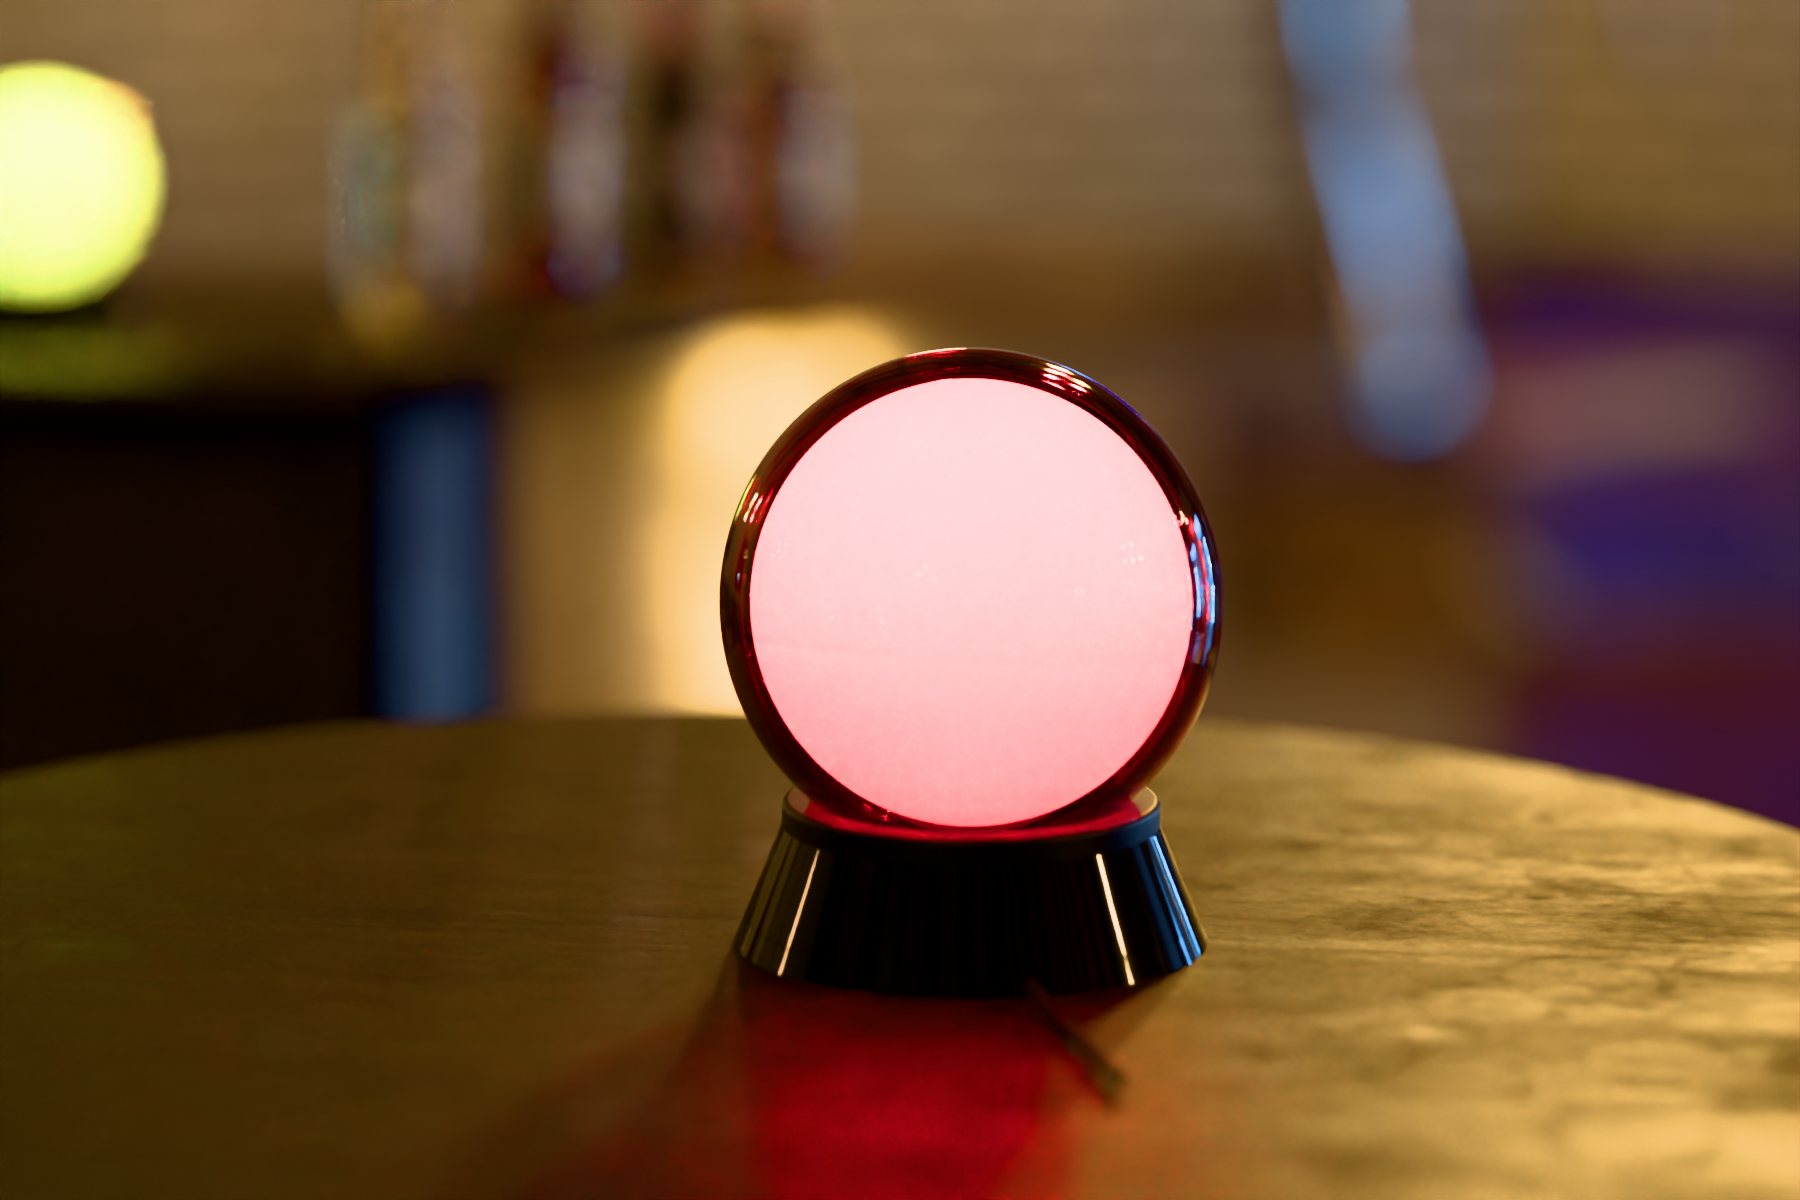
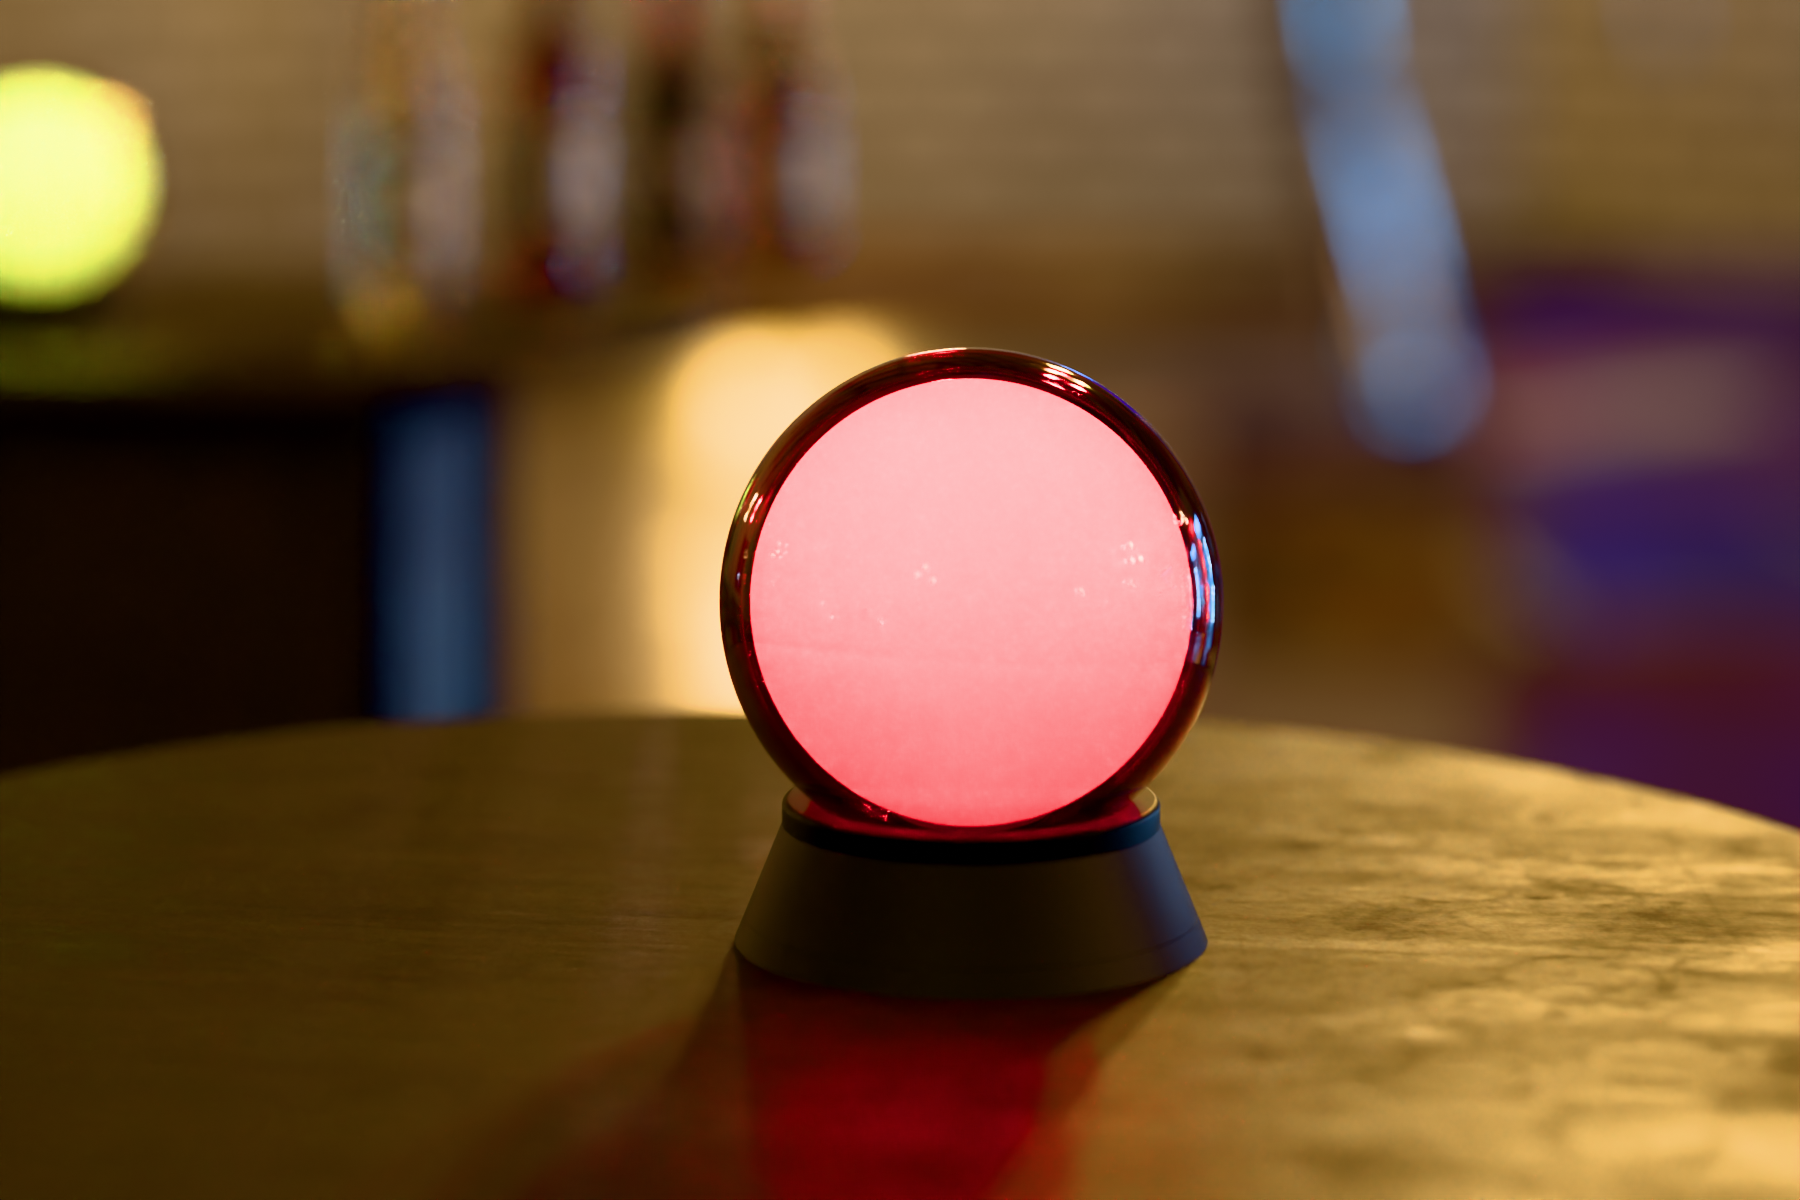
P1 fixed: the Core's dock cable behind its base, the ball a stop darker, the satin base (r32-lamps-final 7c359b88); P2 framed a little wider
Claude-Session: https://claude.ai/code/session_01CsZ9sPVytkpnrfV4BgTgfB

diff --git a/spinoffs/barkhorn/campaign/product_shots.py b/spinoffs/barkhorn/campaign/product_shots.py
@@ -100,7 +100,8 @@ def p2():
     s['sky'] = {'kind': 'gradient', 'strength': 0.0}
     s['lights'] = {'dusk-window': {'type': 'area', 'size_m': [1.6, 2.0], 'position': [3.2, -0.6, 1.7], 'target': [0.0, 0.6, 1.0],
                                    'irradiance': 0.06, 'color': '#9FB3DA'}}
-    s['camera'] = {'position': [0.28, -2.05, 1.12], 'target': [0.05, 0.4, 1.12], 'lens_mm': 45.0, 'level': True,
+    # (proof 2: the table cut at the foot, the top lamp at the head: a little wider)
+    s['camera'] = {'position': [0.28, -2.05, 1.12], 'target': [0.12, 0.4, 1.08], 'lens_mm': 36.0, 'level': True,
                    'fstop': 2.8, 'focus': [0.0, 0.0, 0.95]}
     s['render'].update(exposure=2.6, white_balance_k=3600, white_balance_tint=0.0)
     return s
